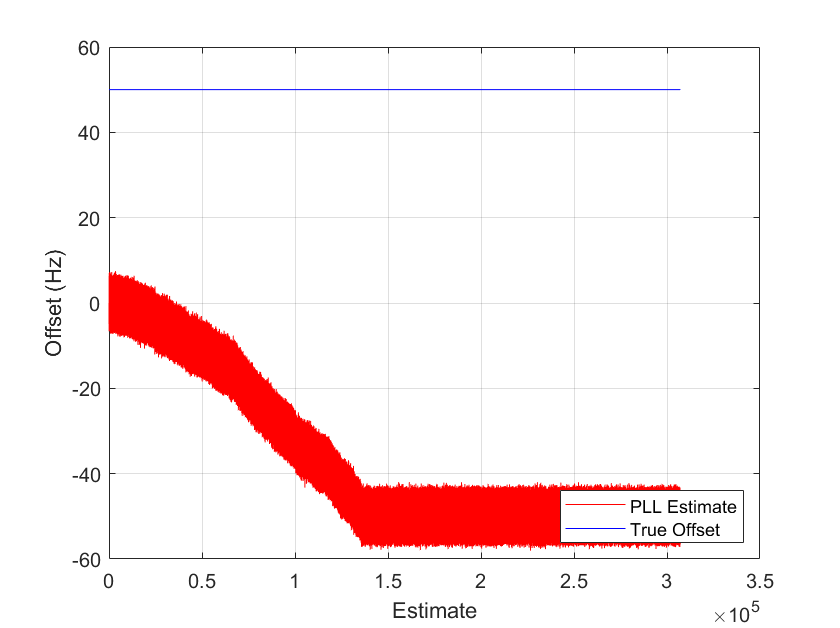
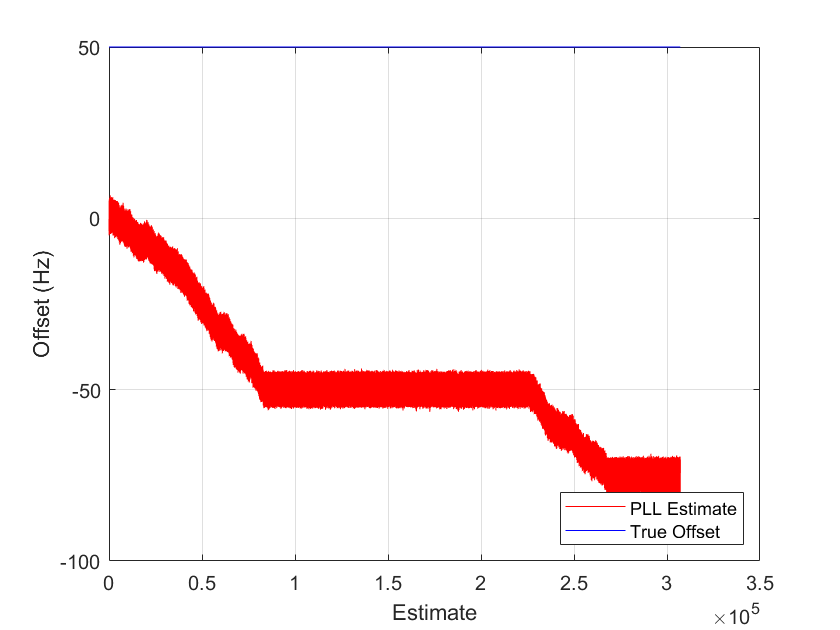
Talked about how to increase the maximum correctable frequency offset

diff --git a/6/lab_report.tex b/6/lab_report.tex
@@ -128,6 +128,7 @@ F(z) = G_1 + \frac{G_2}{1-z^{-1}}
 %\end{equation}
 
 \begin{equation}
+	\label{eq::max_freq_correct}
 	\Delta_{f,\text{pull}} \sim 2\pi\sqrt{2}\zeta{B_\text{Loop}}\end{equation}
 
 \begin{equation}
@@ -288,7 +289,7 @@ Interestingly, when we increase SNR, the EVM relationships remain approximately 
 	\label{fig::convergence_1Hz_drift_Bloop_0p01_damp_sqrt_2}
 \end{figure}
 
-\noindent Similarly, we show the results with $B_{\text{loop}} = 0.005$ below:
+\noindent Similarly, we show the results with $B_{\text{loop}} = 0.005$ and $\zeta = 1/\sqrt{2}$ below:
 
 \begin{figure}[H]
 	\centerline{\fbox{\includegraphics[width=0.5\textwidth]{convergence_1Hz_drift_Bloop_0p005_damp_sqrt_2.png}}}
@@ -298,14 +299,23 @@ Interestingly, when we increase SNR, the EVM relationships remain approximately 
 
 \noindent Comparing the two figures, we see that the PLL has difficulty keeping up with the frequency drift when $B_\text{loop} = 0.005$. If we measures the EVM, we see that it is -14.68 dB for $B_\text{loop} = 0.01$ and 3.08 dB for $B_\text{loop} = 0.005$. We also increase the SNR to 60 dB to characterize the EVM for $B_\text{loop} = 0.01$ and $B_\text{loop} = 0.02$. Doing so, we measure an EVM of -34.93 dB for $B_\text{loop} = 0.01$ and -46.64 dB for $B_\text{loop} = 0.02$. Thus, our choice of control system parameters becomes more important as our input becomes more dynamic. We specifically note that with a faster-responding control system, we can better handle dynamic inputs with only marginal  performance hits for static frequency offsets.
 
-
-   The results are more interesting if allow our input frequency with time. If we add a 1Hz drift, our EVMs are 
+We also examine how the loop filter parameters influence the maximum correctable frequency. For a 50 Hz offset with $B_{\text{loop}} = 0.01$ and $\zeta = 1/\sqrt{2}$, the PLL response is shown in Figure \ref{fig::convergence_Bloop_0p01_damp_sqrt_2_foff_50}.
 
 \begin{figure}[H]
-	\centerline{\fbox{\includegraphics[width=0.5\textwidth]{convergence_Bloop_0p01_damp_0p5.png}}}
-	\caption{Plot of PLL Estimate for $\protect{B_\text{loop}} = 0.01$ and $\protect{\zeta = 0.5}$}
-	\label{fig::convergence_Bloop_0p01_damp_0p5}
+	\centerline{\fbox{\includegraphics[width=0.5\textwidth]{convergence_Bloop_0p01_damp_sqrt_2_foff_50.png}}}
+	\caption{Plot of PLL Estimate with 50 Hz Frequency Offset, $\protect{B_\text{loop}} = 0.01$, and $\protect{\zeta = 1/\sqrt{2}}$}
+	\label{fig::convergence_Bloop_0p01_damp_sqrt_2_foff_50}
 \end{figure}
+
+\noindent Examining the response, we see that the PLL fails to lock. If we increase $B_{\text{loop}}$ to 0.05 and $\zeta$ to 2, we get the results shown in Figure \ref{fig::convergence_Bloop_0p05_damp_2_foff_50}.
+
+\begin{figure}[H]
+	\centerline{\fbox{\includegraphics[width=0.5\textwidth]{convergence_Bloop_0p05_damp_2_foff_50.png}}}
+	\caption{Plot of PLL Estimate with 50 Hz Frequency Offset, $\protect{B_\text{loop}} = 0.05$, and $\protect{\zeta = 2}$}
+	\label{fig::convergence_Bloop_0p05_damp_2_foff_50}
+\end{figure}
+
+\noindent Comparing the results to Figure \ref{fig::convergence_Bloop_0p01_damp_sqrt_2_foff_50}, we see that the PLL now converges. This is consistent with Equation \ref{eq::max_freq_correct}, which states that the maximum correctable frequency increases with increasing  $B_{\text{loop}}$ and $\zeta$. Note that our results did not seem to indicate a linear relationship between the maximum resolve frequency and $B_{\text{loop}}$ or $\zeta$. This is likely because Equation \ref{eq::max_freq_correct} makes some assumptions about the size of the frequency offset with respect to the signal bandwidth that do not hold in this case.
 
 \noindent The QPSK PED is slightly different than the BPSK PED and is given as follows:
 

diff --git a/6/code/lab6part2.m b/6/code/lab6part2.m
@@ -32,8 +32,8 @@ ap.XOffset = -sampleRateHz/2;
 ap.SampleIncrement = (sampleRateHz)/(2^10);
 
 %% Impairments
-snr = 5;
-frequencyOffsetHz = sampleRateHz*0.02; % Offset in hertz
+snr = 15;
+frequencyOffsetHz = sampleRateHz*0.05; % Offset in hertz
 frequencyDriftHz = sampleRateHz*0; %0.001;
 phaseOffset = 0; % Radians
 
